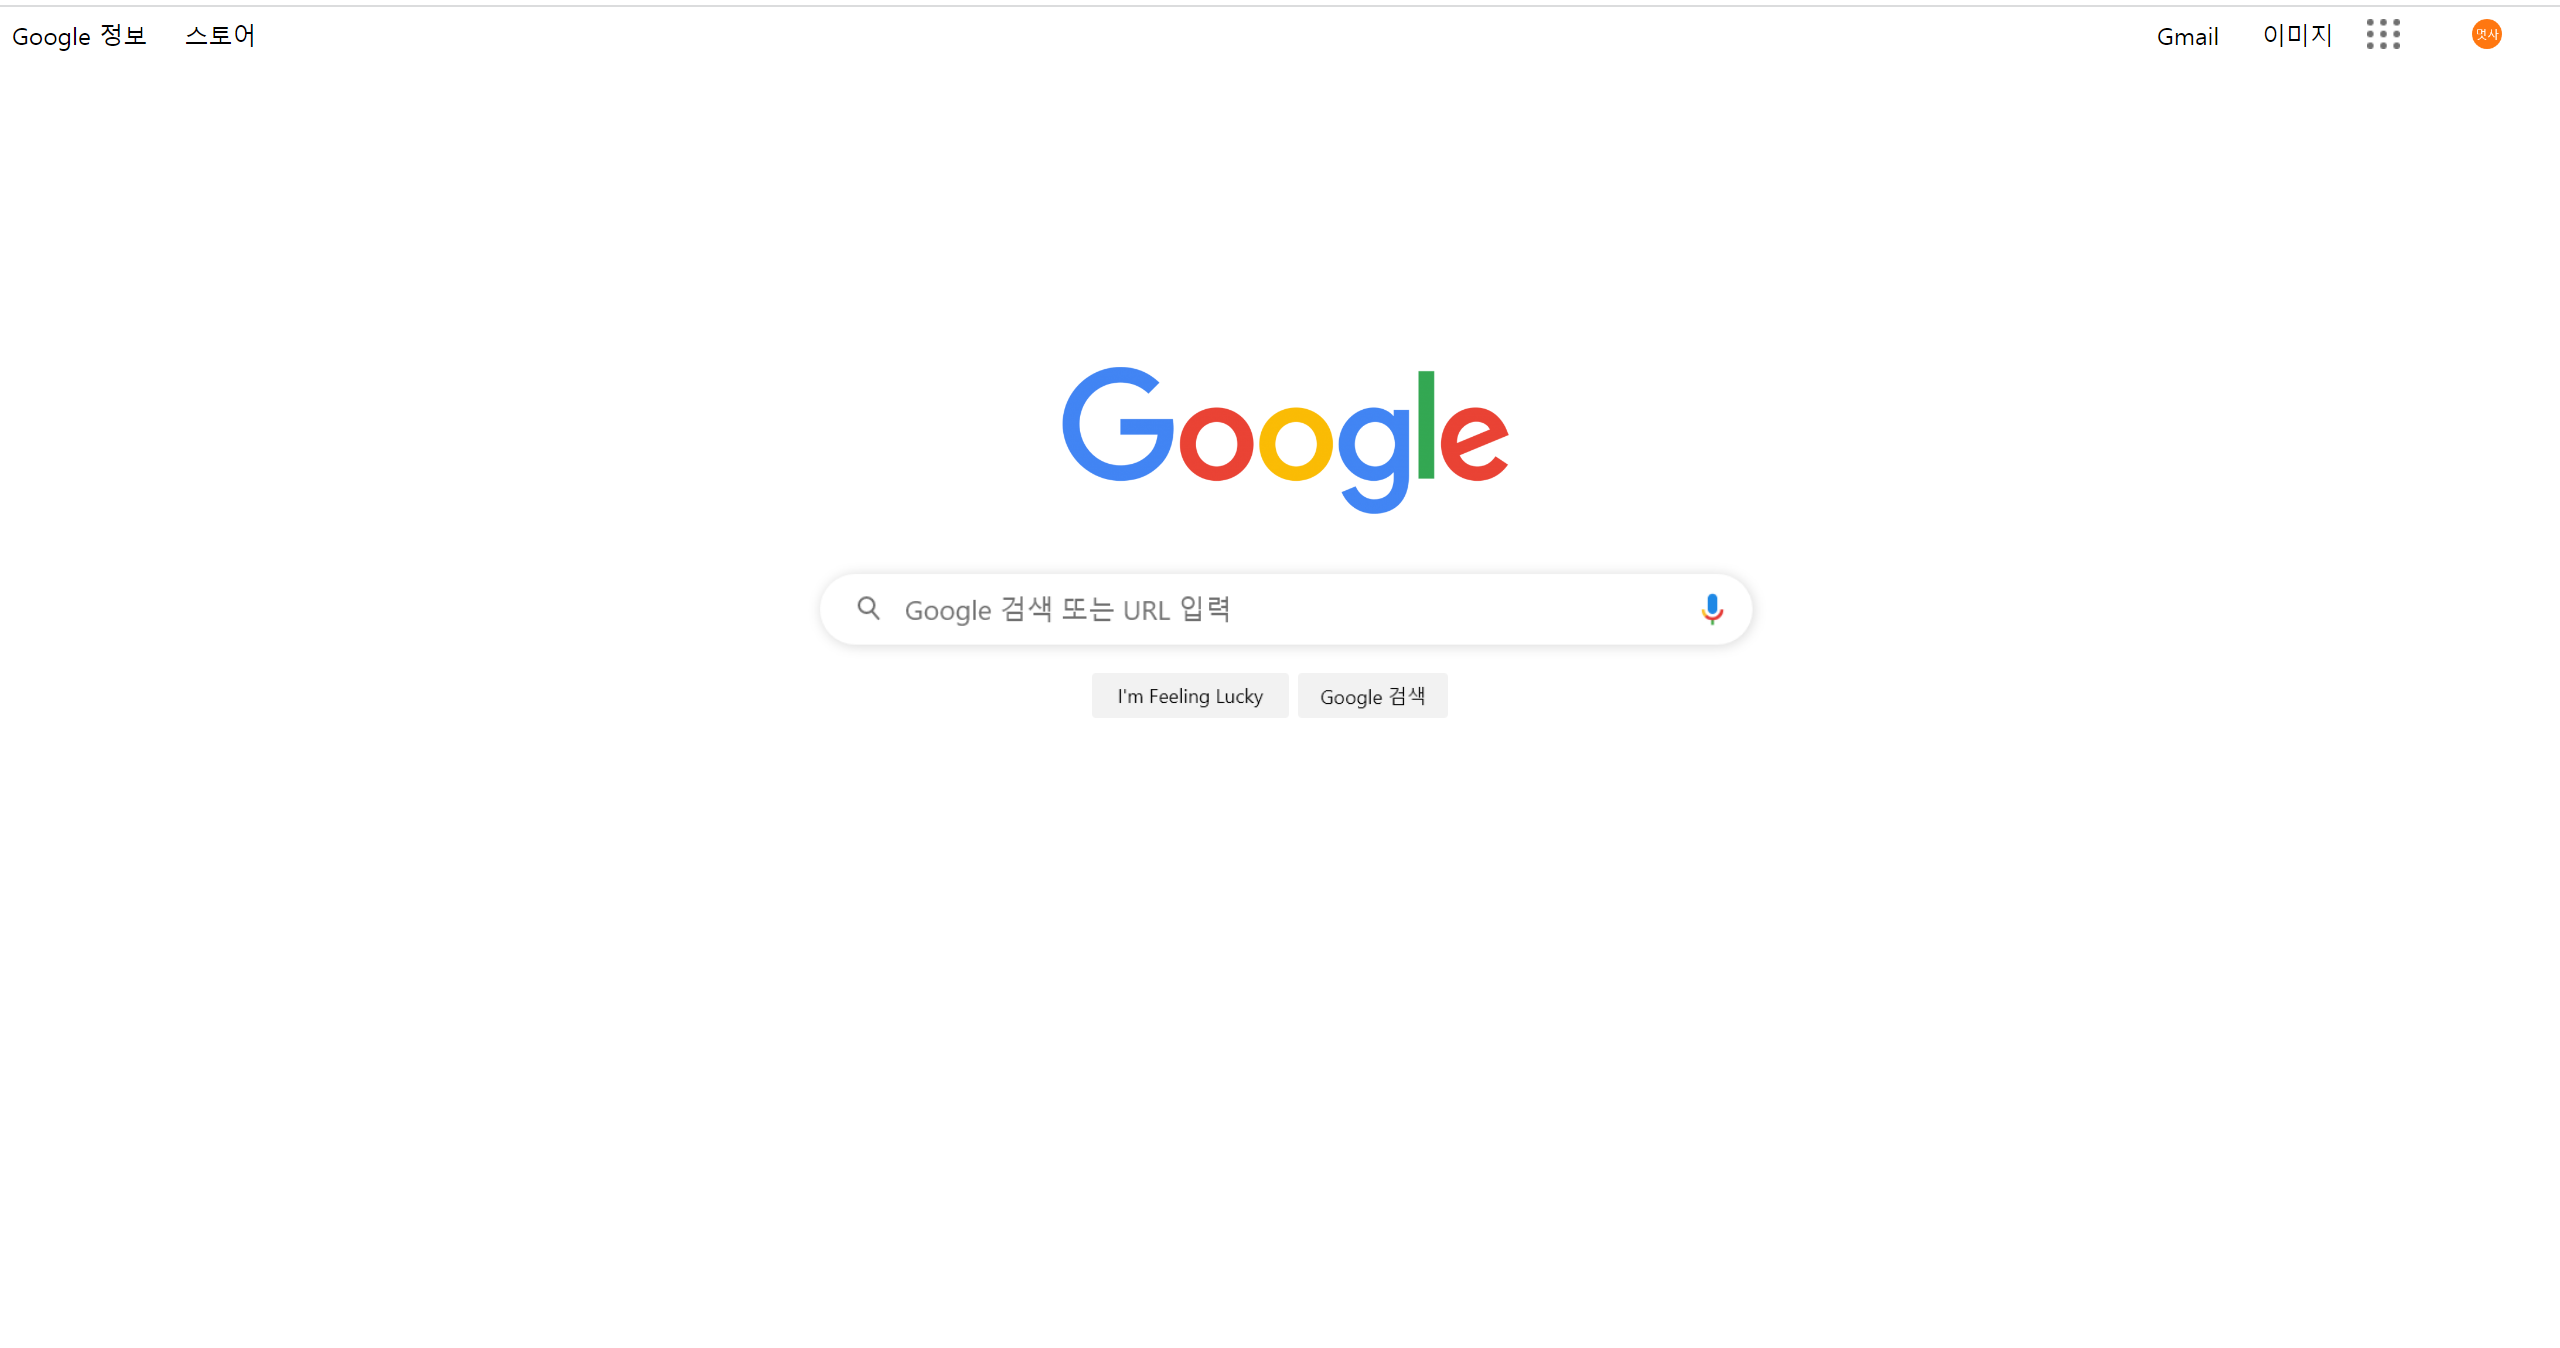
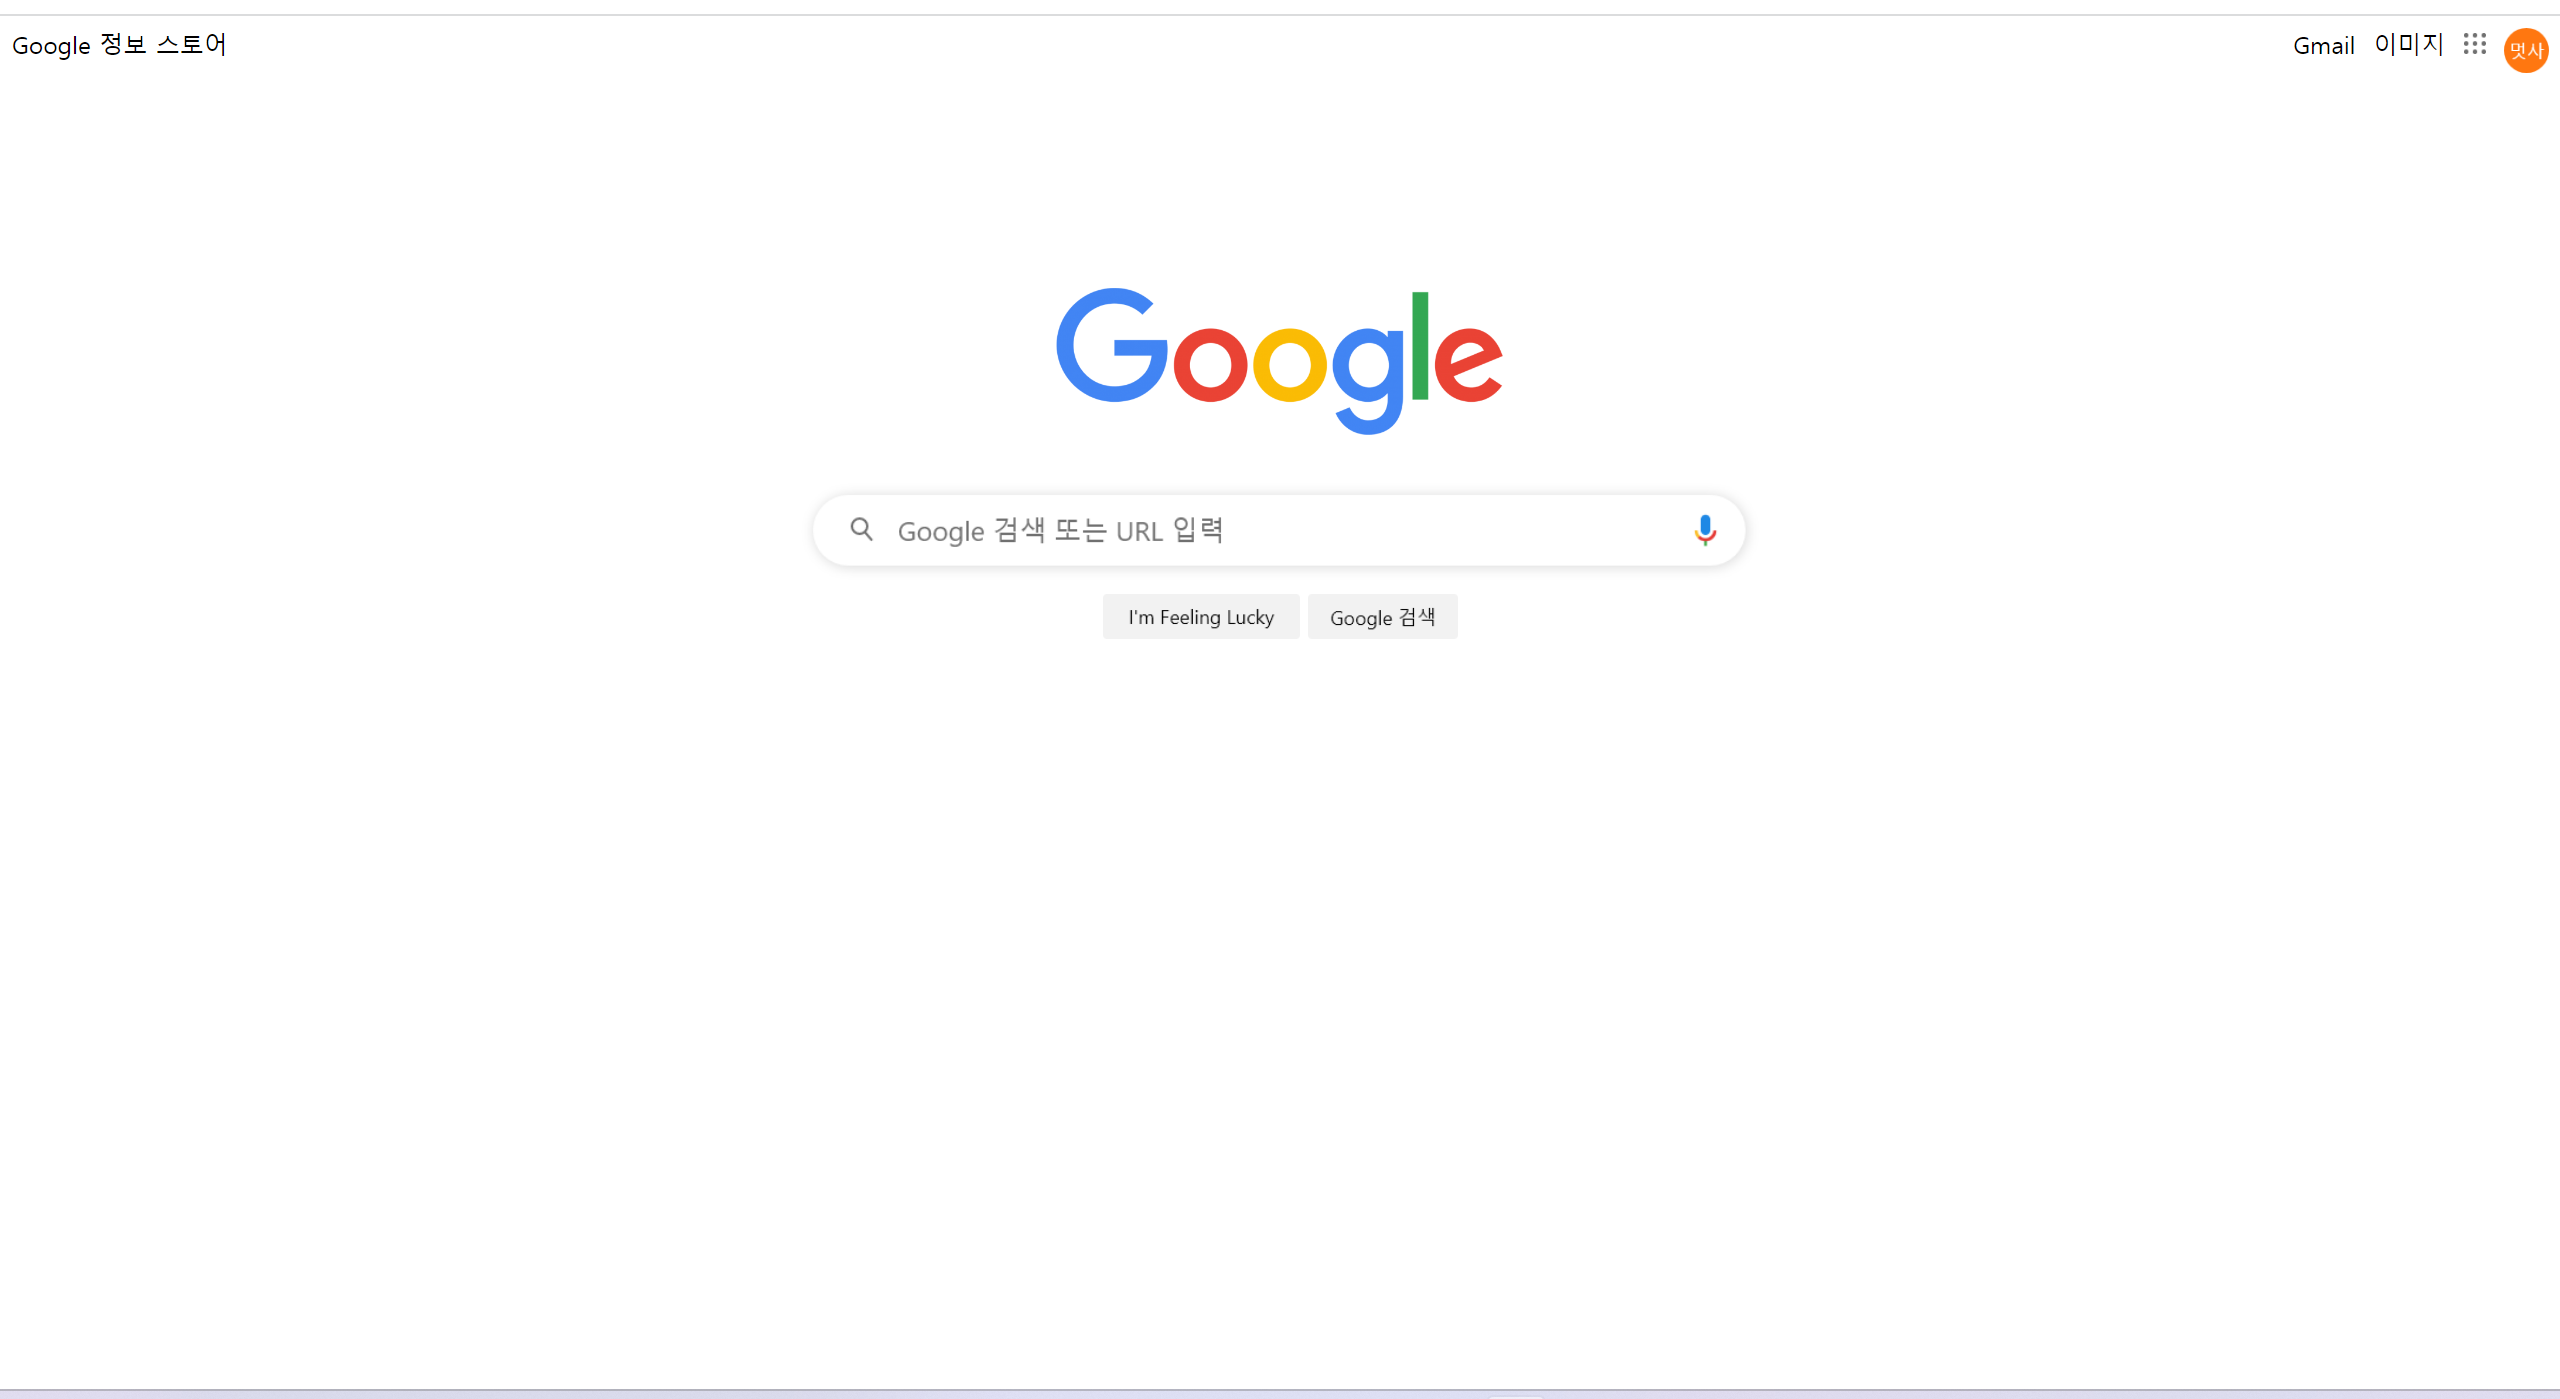
수정git add .

diff --git a/kimsieun/layout/kse_layout.html b/kimsieun/layout/kse_layout.html
@@ -8,27 +8,27 @@
 
 <body>
    <header>
-        <div class="inline-block">
+        <div class="ib">
            <div class="ib1">Google 정보</div>
            <div class="ib1">스토어</div>
 
-           <div class="ib2">Gmail</div> 
+           <div class="ib2"><img src="../../layout_img/account.png" style="width: 30px;"></div>
+           <div class="ib2"><img src="../../layout_img/menu.png" style="width: 15px;"></div>
            <div class="ib2">이미지</div>
-           <div class="ib2"><img src="C:\Users\dallm\OneDrive\바탕 화면\LikeLion11th-Assignment02\layout_img\menu.png"></div>
-           <div class="ib2"><img src="C:\Users\dallm\OneDrive\바탕 화면\LikeLion11th-Assignment02\layout_img\account.png"></div>
+           <div class="ib2">Gmail</div> 
         </div>       
    </header>
    <section>
       <div class="ib3">
-         <img src="C:\Users\dallm\OneDrive\바탕 화면\LikeLion11th-Assignment02\layout_img\google.png" alt="google" style="width: 300px;" >
+         <img src="../../layout_img/google.png" alt="google" style="width: 300px;" >
       </div>
       <br>
       <div class="ib4">
-         <img src="C:\Users\dallm\OneDrive\바탕 화면\LikeLion11th-Assignment02\layout_img\search.png" style="width: 650px;">
+         <img src="../../layout_img/search.png" style="width: 650px;">
       </div>
       <div class="ib5">
-         <img src="C:\Users\dallm\OneDrive\바탕 화면\LikeLion11th-Assignment02\layout_img\item1.png" style="height: 30px;">
-         <img src="C:\Users\dallm\OneDrive\바탕 화면\LikeLion11th-Assignment02\layout_img\item2.png" style="height: 30px;">
+         <img src="../../layout_img/item1.png" style="height: 30px;">
+         <img src="../../layout_img/item2.png" style="height: 30px;">
       </div>
    </section>
 </body>

diff --git a/kimsieun/layout/kse_layout.css b/kimsieun/layout/kse_layout.css
@@ -1,58 +1,32 @@
-
-.inline-block {
-    display: flex;
-
-	width: 3000px;
-	height: 130px;
-
-	top: 100px;
-	left: 100px;
-}
-
 .ib1 {
-	display: flex;
-	flex-content: row;
+	display: inline-block;
+	flex-direction: row;
 
-	text-align: center;
-
-	width: 115px;
-	height: 100px;
-
-	position: relative;
+	justify-content: space-evenly;
 }
 
 
 .ib2 {
-	display: flex;
-	flex-content: row-reverse;
+	float: right;
 
-	width: 70px;
-	height: 20px;
+	display: inline-block;
+	flex-direction: row;
 
-	left: 1200px;
+	margin-left: 12px;   /* 이상하게 float만 쓰면 space-evenly가 적용이 되지 않는데 그 이유가 궁금합니다! */
 
-	position: relative;
-}
+} 
+
 
 .ib3 {
-	display: justify;
-	justify-content: center;
-
-	padding: 100px 700px 0px 700px;
-
-
+	margin-top: 150px;
+	text-align: center;
 }
 
 .ib4 {
-	display: justify;
-	justify-content: center;
-
-	padding: 0px 520px 0px 525px;
-
+	text-align: center;
 
 }
 
 .ib5 {
-	left: 720px;
-	position: relative;
-}
+	text-align: center;
+} 
